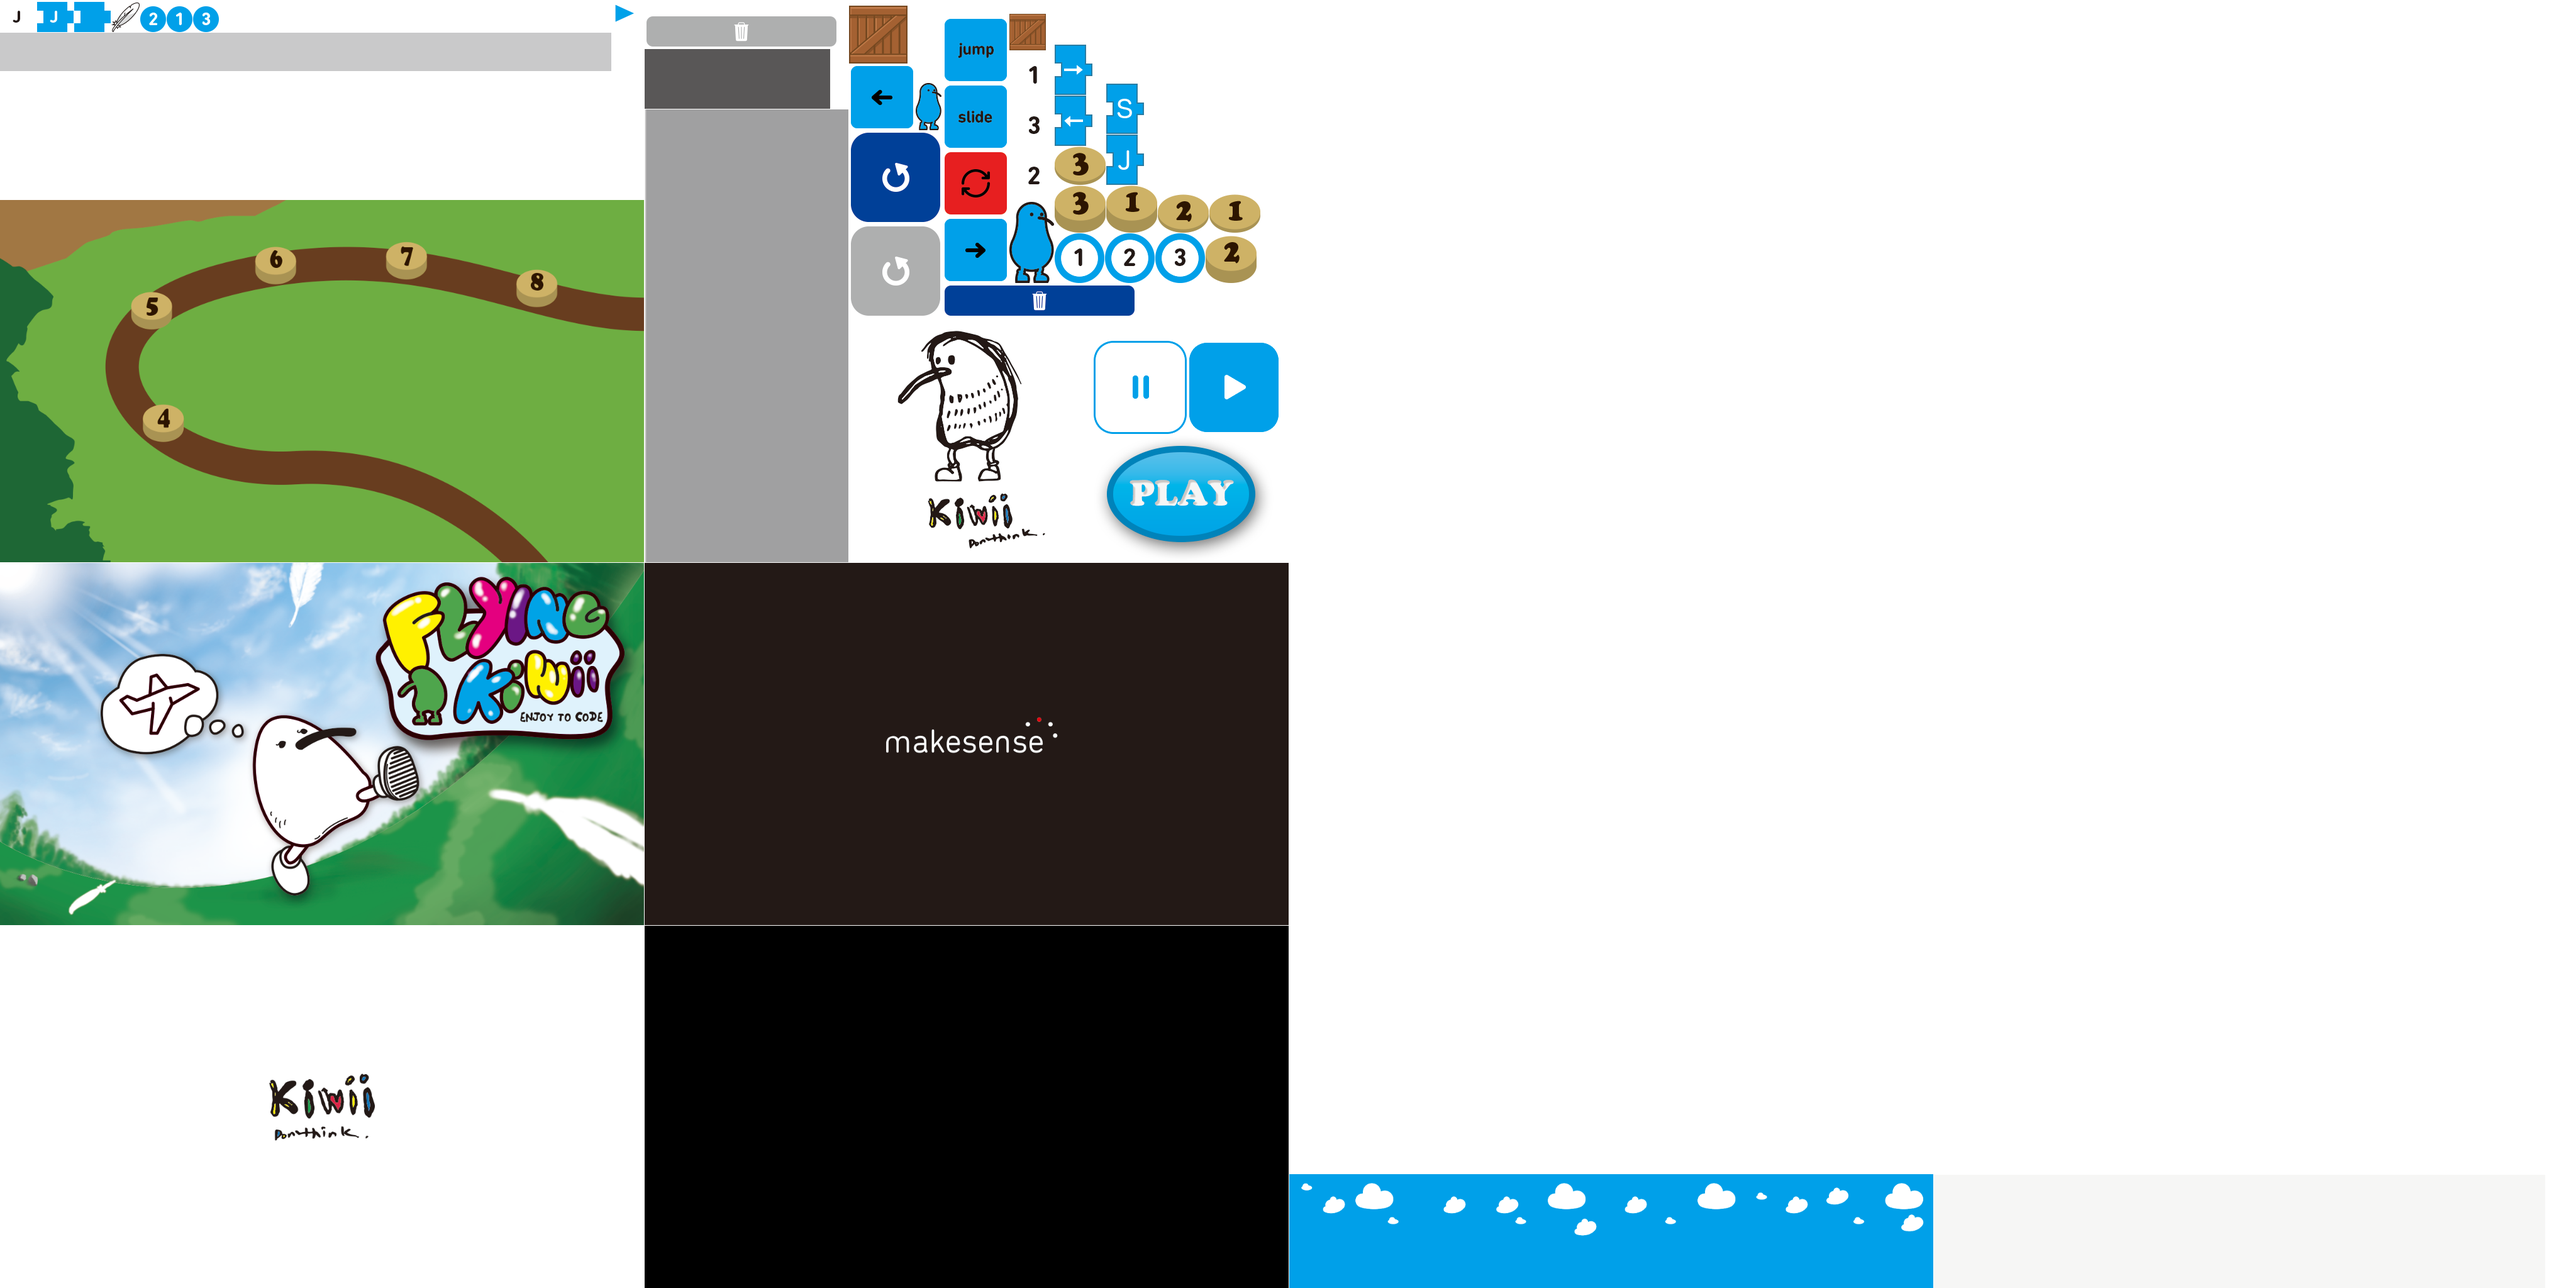
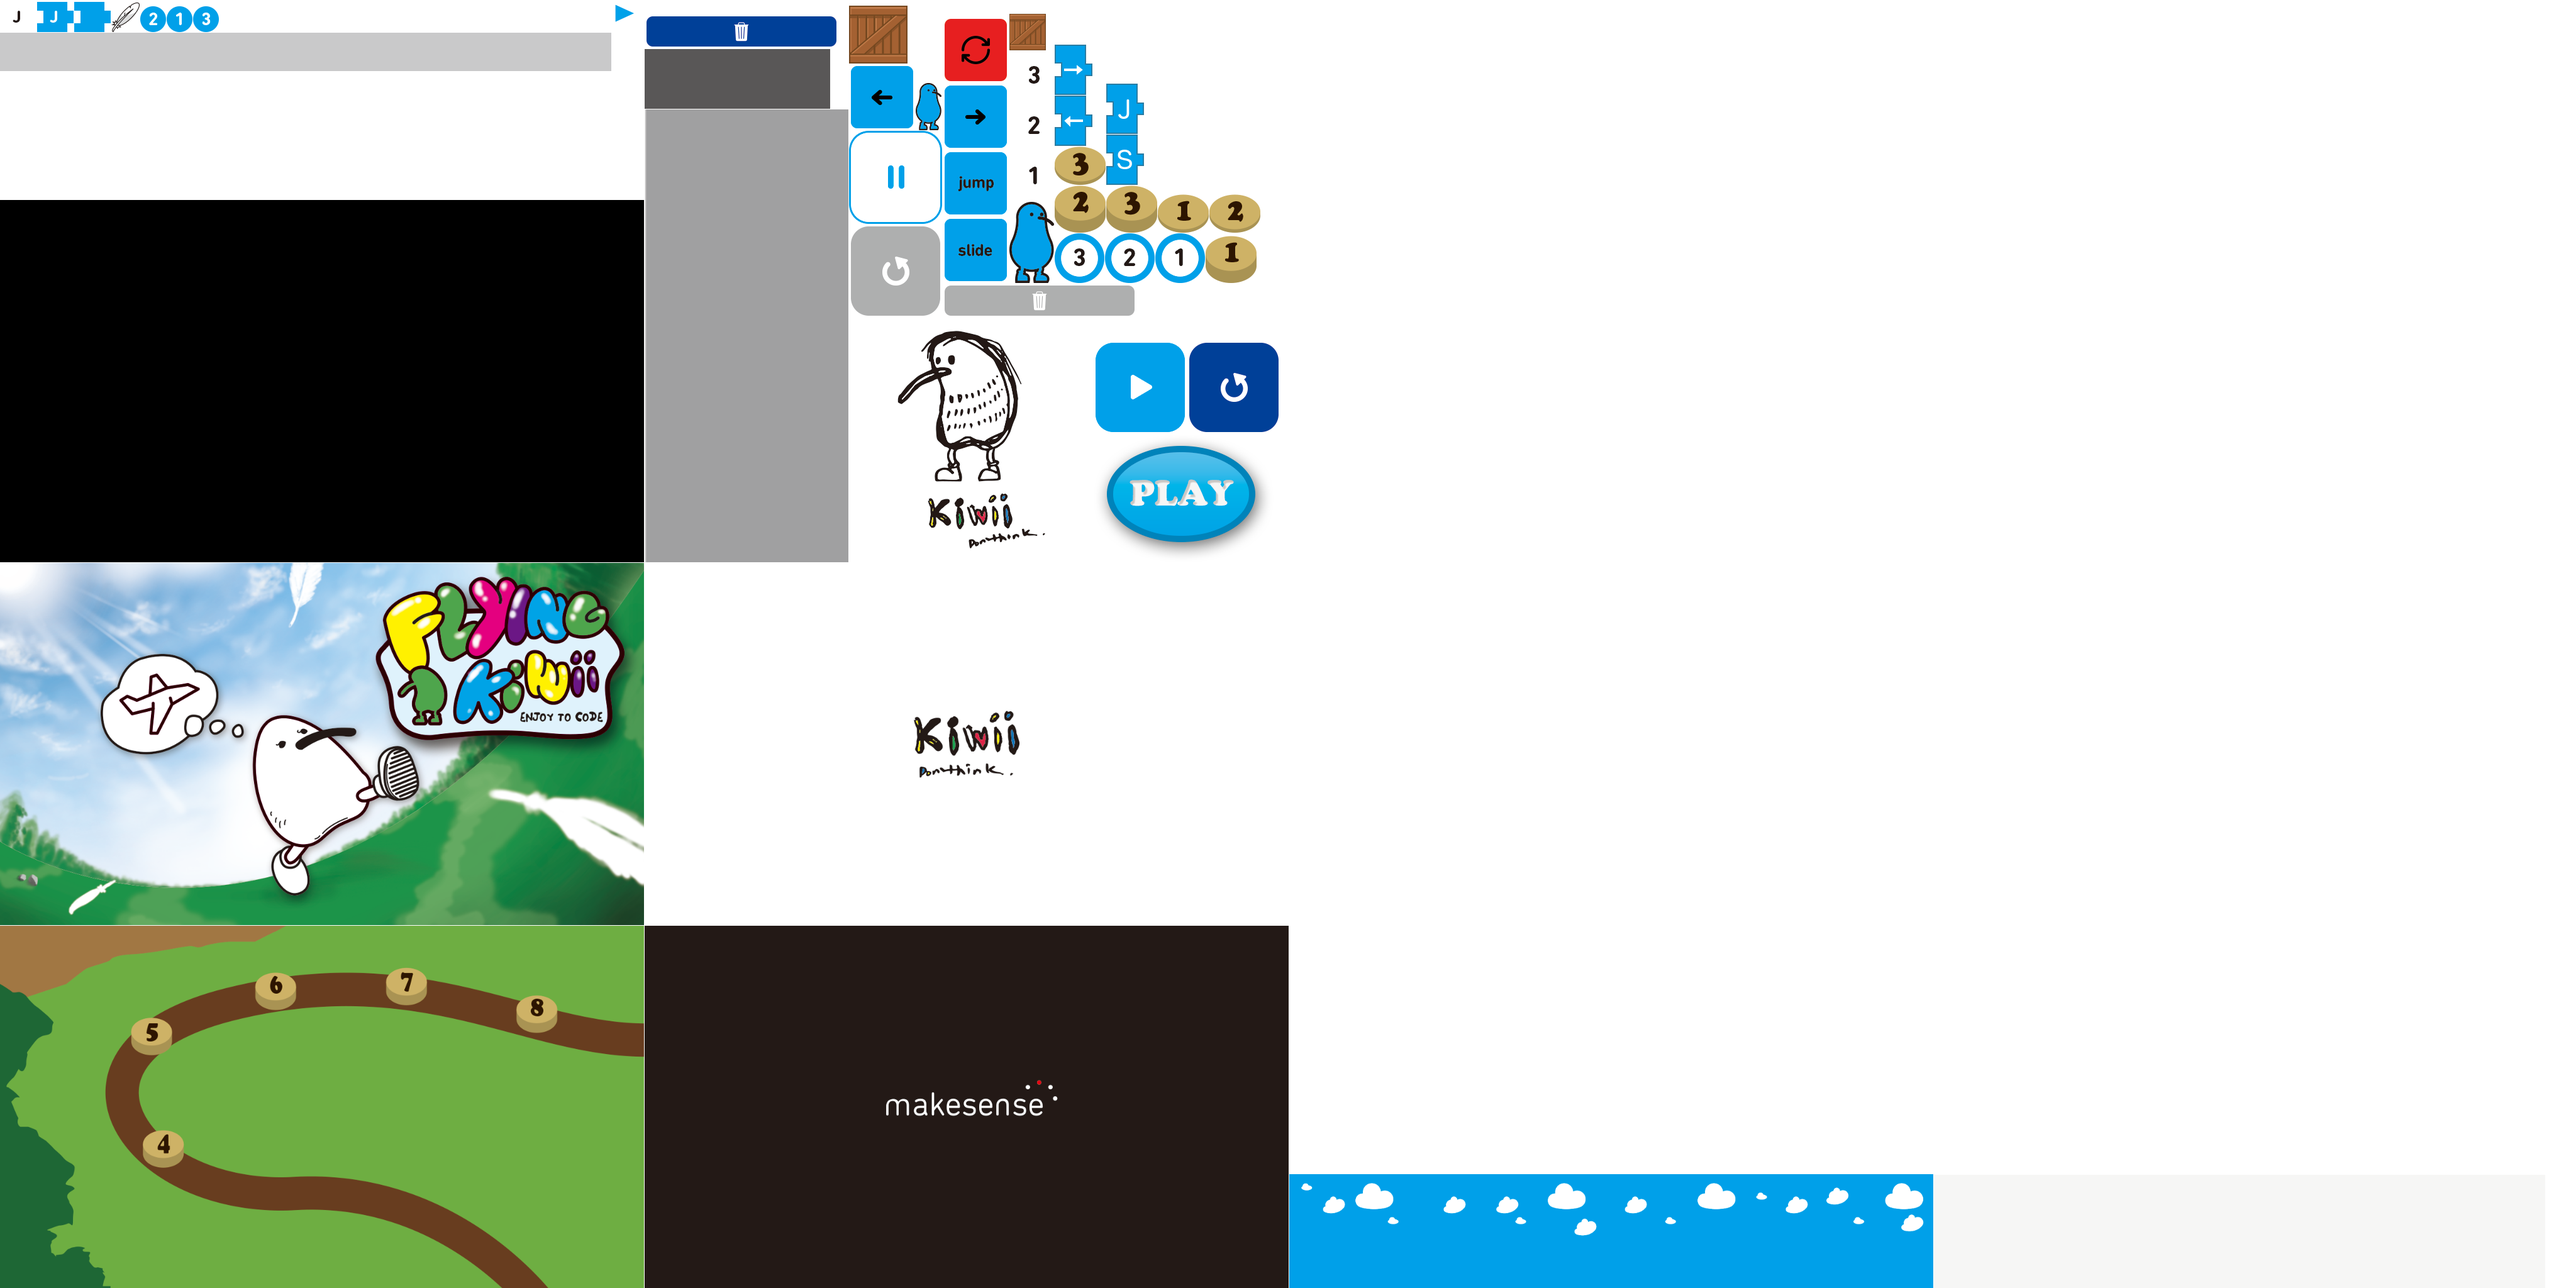
Change 03_stage's level button

diff --git a/Assets/Scripts/CreatePrefab.cs b/Assets/Scripts/CreatePrefab.cs
@@ -12,10 +12,10 @@ public class CreatePrefab : MonoBehaviour {
 		Transform _transform = ChuckStage.transform.FindChild(positionOfPrefab.name);
 		if (_transform != null) {
 			_lastPosition = _transform.localPosition;
-			if(this.tag == "Chuck")
+			/*if(this.tag == "Chuck")
 			{
 				transform.localScale = new Vector3(0.5f,0.5f,0);
-			}
+			}*/
 
 //			Debug.Log(_transform.name + ":" + _lastPosition.ToString());
 		}

diff --git a/Assets/Scripts/Scene/03_stage/ButtonChg.cs b/Assets/Scripts/Scene/03_stage/ButtonChg.cs
@@ -1,0 +1,22 @@
+using UnityEngine;
+using System.Collections;
+
+public class ButtonChg : MonoBehaviour {
+
+
+	public void ButtonImage(GameObject other)
+	{
+		UIButton button = other.GetComponentInChildren<UIButton> () as UIButton;
+	
+		button.normalSprite = other.name + "_on";
+	}
+	// Use this for initialization
+	void Start () {
+	
+	}
+	
+	// Update is called once per frame
+	void Update () {
+	
+	}
+}
